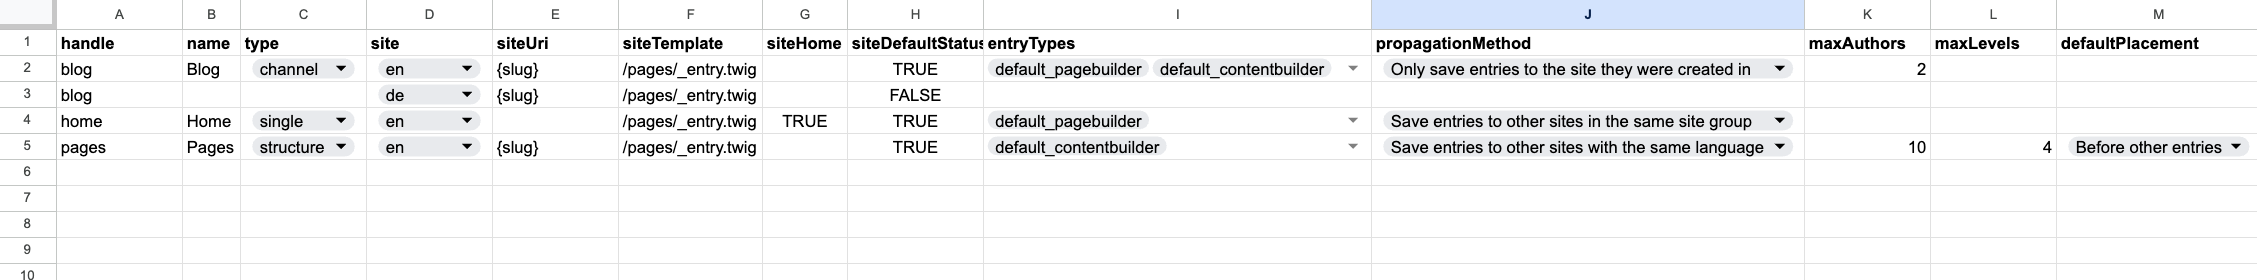
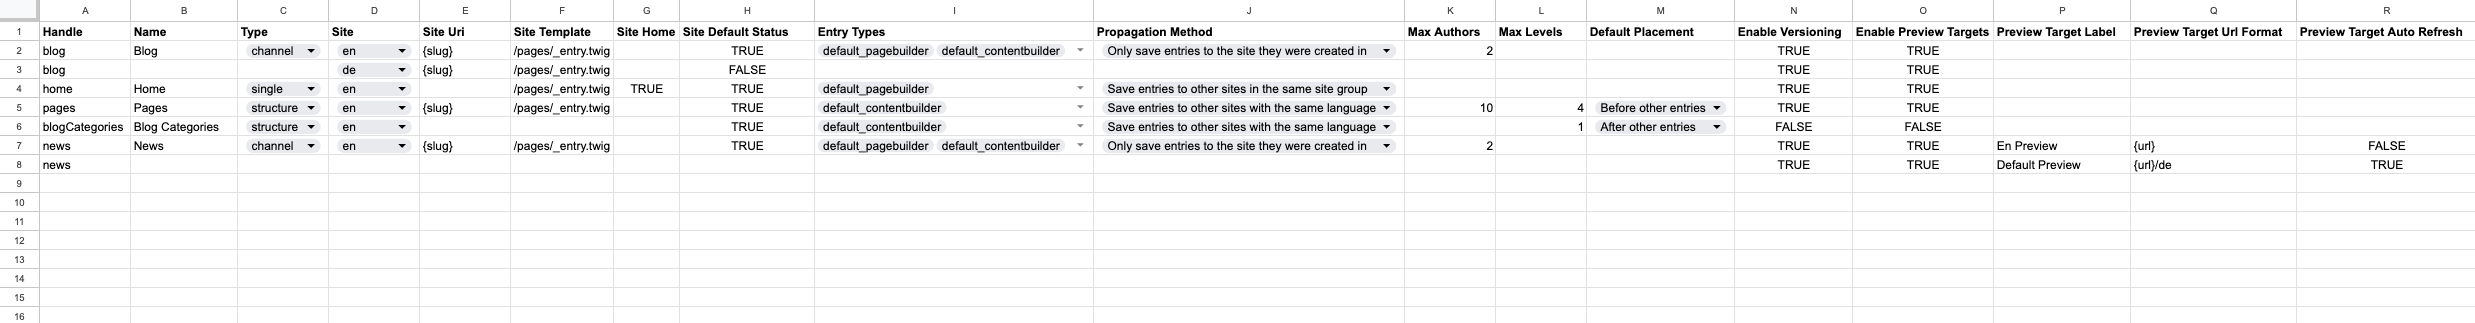
Update genesis docs

Changed region(s): [[0.0, 0.0, 1.0, 0.7143], [0.0, 0.7429, 1.0, 1.0], [0.9615, 0.4286, 0.9925, 0.4571]]

diff --git a/content/2.libraries/craft-genesis/2.usage/3.sections.md b/content/2.libraries/craft-genesis/2.usage/3.sections.md
@@ -12,6 +12,7 @@ Import sections to organize your content structure.
 | `name` | Yes | Display name |
 | `type` | Yes | Section type: `single`, `channel`, `structure` |
 | `entryTypes` | Yes | Comma-separated entry type handles |
+| `enableVersioning` | No | If versioning should be enabled |
 | `site` | No | Site handle for site-specific settings |
 | `siteUri` | No | URI pattern (e.g., `blog/{slug}`) |
 | `siteTemplate` | No | Template path |
@@ -21,6 +22,10 @@ Import sections to organize your content structure.
 | `maxAuthors` | No | Maximum number of authors |
 | `maxLevels` | No | Maximum nesting levels (structures only) |
 | `defaultPlacement` | No | New entry placement (structures only) |
+| `enablePreviewTargets` | No | If preview targets exist |
+| `previewTargetLabel` | No | Preview Target label |
+| `previewTargetUrlFormat` | No | Preview Target url format |
+| `previewTargetAutoRefresh` | No | If Preview Target should auto refresh|
 
 ## Example
 
@@ -65,7 +70,15 @@ Separate multiple entry type handles with commas:
 
 ```csv
 handle,name,type,entryTypes
-news,News,channel,"article,event,announcement"
+news,News,channel,"article, event,announcement"
 ```
 
 Use quotes when the value contains commas.
+
+## Multiple Site Settings
+
+For multiple site settings, use different rows with the same section handle.
+
+## Multiple Preview Targets
+
+For multiple preview targets, use different rows with the same section handle.

diff --git a/content/2.libraries/craft-genesis/1.get-started/installation.md b/content/2.libraries/craft-genesis/1.get-started/installation.md
@@ -35,4 +35,9 @@ After installation, navigate to **Utilities > Genesis Import** in your control p
 
 ## Example Config File
 
-To get started quickly, use this [example config file](/other-files/example-craft-config.xlsx){target="_blank" download="/other-files/example-craft-config.xlsx"} and get begin to configure it.
+To get started quickly, use this [example config file](/other-files/example-craft-config.xlsx){target="_blank" download="/other-files/example-craft-config.xlsx"} and get begin to configure it. 
+
+
+::alert{variant="note"}
+You can use Title Case or camelCase for the column header.
+::
